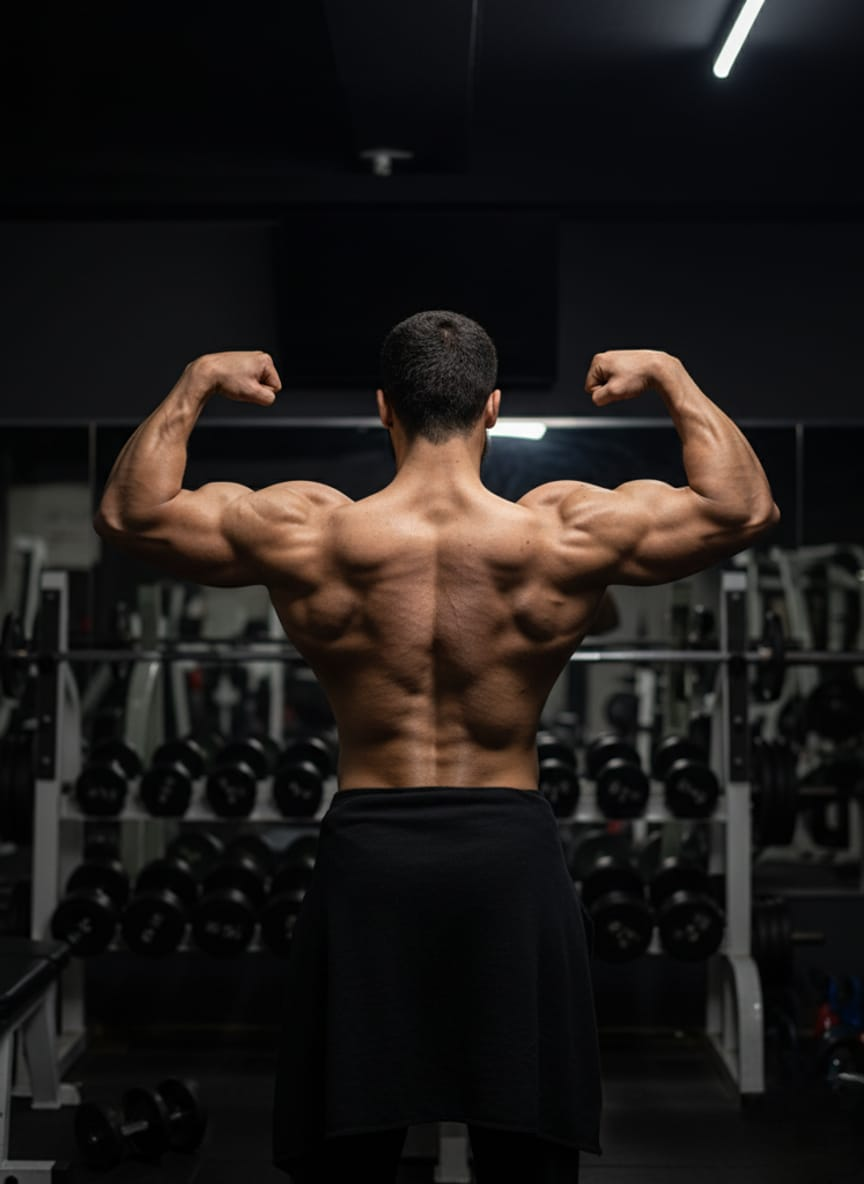
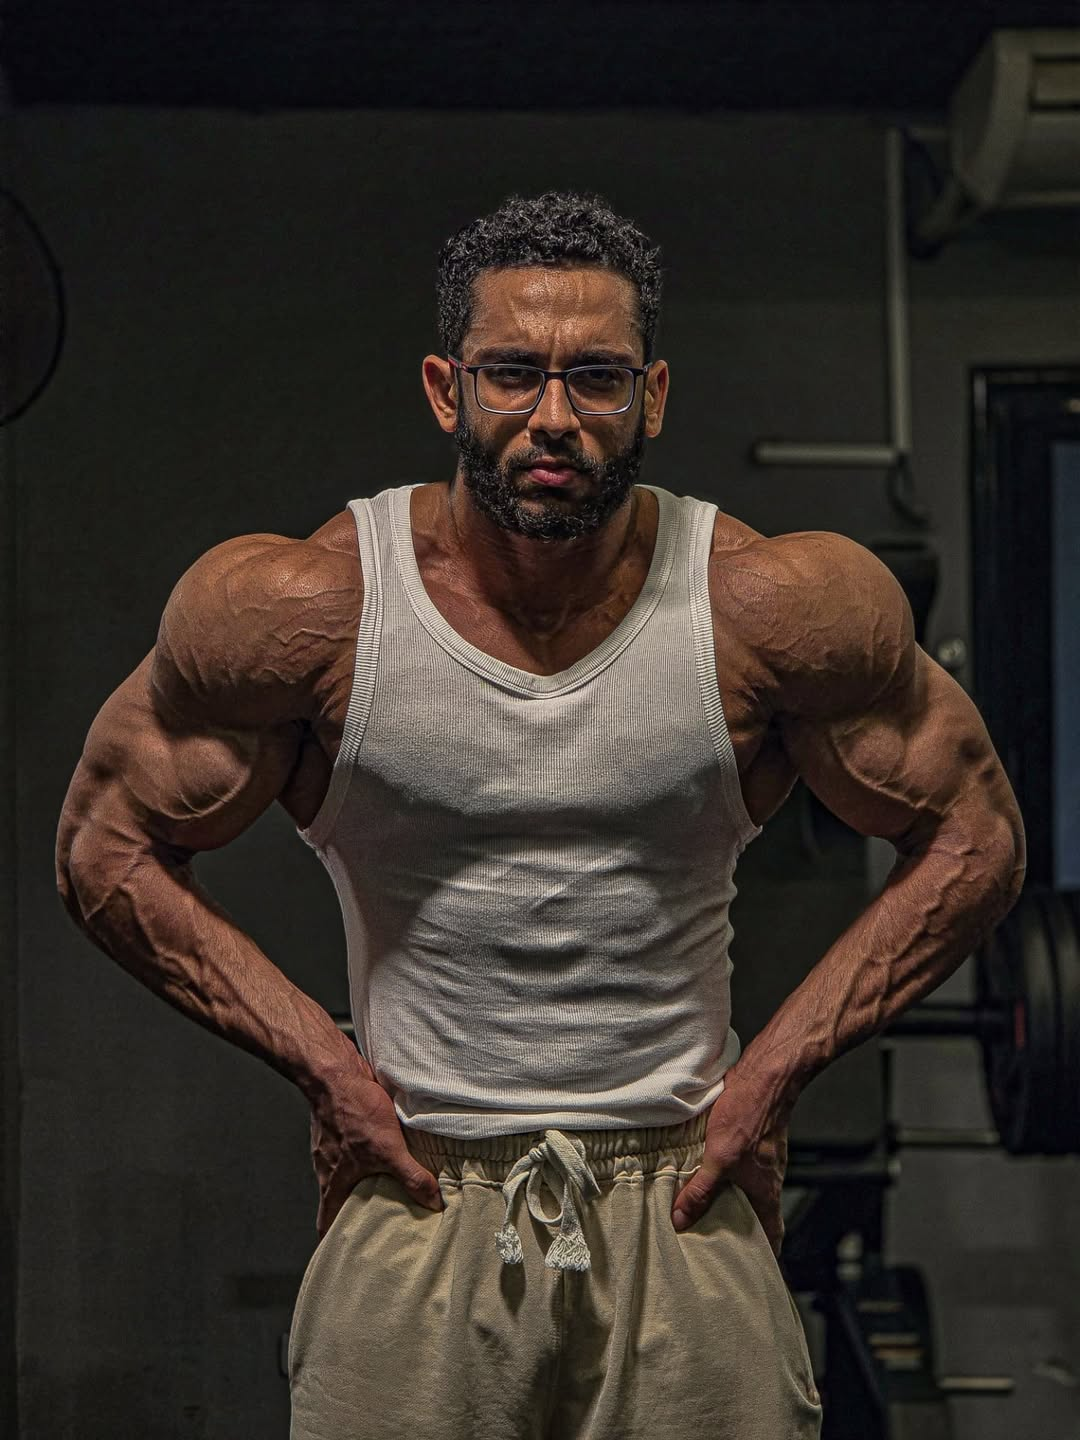
Add files via upload

diff --git a/script.js b/script.js
@@ -1,4 +1,19 @@
 document.addEventListener('DOMContentLoaded', () => {
+    // --- نظام حماية الدخول للمحرر (Admin Access) ---
+    const urlParams = new URLSearchParams(window.location.search);
+    const userParam = urlParams.get('user');
+    const adminKey = '12345';
+    const editorContainer = document.getElementById('diet-plan-container');
+
+    // إذا كان المستخدم يحاول فتح المحرر (index.html)
+    if (editorContainer) {
+        if (userParam !== adminKey) {
+            // تحويل أي شخص لا يملك الرابط السري إلى صفحة التطبيق
+            window.location.href = 'app.html';
+            return; // إيقاف تشغيل باقي الكود
+        }
+    }
+
     const addDayButton = document.getElementById('add-day-button');
     const deleteAllButton = document.getElementById('delete-all-button');
     const saveButton = document.getElementById('save-button');
@@ -11,12 +26,18 @@ document.addEventListener('DOMContentLoaded', () => {
 
     // قائمة الحقول الغذائية المتاحة
     const nutritionFields = {
-        calories: { label: 'سعرات', unit: '' },
-        protein: { label: 'بروتين', unit: 'جرام' },
-        carbs: { label: 'كارب', unit: 'جرام' },
-        fats: { label: 'دهون', unit: 'جرام' },
-        fiber: { label: 'ألياف', unit: 'جرام' },
-        sugar: { label: 'سكريات', unit: 'جرام' }
+        calories: { label: 'سعرات', unit: '', icon: '🔥' },
+        protein: { label: 'بروتين', unit: 'جرام', icon: '💪' },
+        carbs: { label: 'كارب', unit: 'جرام', icon: '⚡' },
+        fats: { label: 'دهون', unit: 'جرام', icon: '🧈' },
+        fiber: { label: 'ألياف', unit: 'جرام', icon: '🌾' },
+        sugar: { label: 'سكريات', unit: 'جرام', icon: '🍯' }
+    };
+
+    const workoutFields = {
+        weight: { label: 'الوزن', unit: 'كجم', icon: '⚖' },
+        reps: { label: 'العدادات', unit: '', icon: '🔢' },
+        sets: { label: 'المجاميع', unit: '', icon: '📊' }
     };
 
 
@@ -36,14 +57,12 @@ document.addEventListener('DOMContentLoaded', () => {
             document.querySelectorAll('#nutrition-fields-checkboxes input:checked').forEach(checkbox => {
                 const fieldKey = checkbox.dataset.field;
                 const field = nutritionFields[fieldKey];
-                detailsHtml += `<span data-field="${fieldKey}"><strong>${field.label}:</strong> <span contenteditable="true">0</span> ${field.unit}</span>`;
+                detailsHtml += `<span data-field="${fieldKey}"><strong>${field.icon || ''} ${field.label}:</strong> <span contenteditable="true">0</span> ${field.unit}</span>`;
             });
         } else { // workout
-            detailsHtml = `
-                <span class="workout-field"><strong>الوزن:</strong> <span contenteditable="true">0</span> كجم</span>
-                <span class="workout-field"><strong>العدادات:</strong> <span contenteditable="true">0</span></span>
-                <span class="workout-field"><strong>المجاميع:</strong> <span contenteditable="true">0</span></span>
-            `;
+            Object.entries(workoutFields).forEach(([key, field]) => {
+                detailsHtml += `<span class="workout-field"><strong>${field.icon || ''} ${field.label}:</strong> <span contenteditable="true">0</span> ${field.unit}</span>`;
+            });
         }
 
         mealBlock.innerHTML = `
@@ -61,11 +80,13 @@ document.addEventListener('DOMContentLoaded', () => {
     const createDayBlock = () => {
         dayCounter++;
         const dayBlock = document.createElement('div');
-        const addBtnText = planTypeSelector.value === 'diet' ? '➕ إضافة وجبة' : '➕ إضافة تمرين';
+        const planType = planTypeSelector.value;
+        const addBtnText = planType === 'diet' ? '➕ إضافة وجبة' : '➕ إضافة تمرين';
+        const dayTitle = planType === 'diet' ? `اليوم ${dayCounter} - 🍎 تغذية` : `اليوم ${dayCounter} - 💪 تمارين`;
         dayBlock.className = 'day-block';
         dayBlock.innerHTML = `
             <div class="day-header">
-                <h2 contenteditable="true">اليوم ${dayCounter}</h2>
+                <h2 contenteditable="true">${dayTitle}</h2>
                 <div class="day-header-buttons">
                     <button class="add-meal-btn">${addBtnText}</button>
                     <button class="delete-day-btn" title="حذف اليوم">🗑</button>
@@ -149,14 +170,12 @@ document.addEventListener('DOMContentLoaded', () => {
                     document.querySelectorAll('#nutrition-fields-checkboxes input:checked').forEach(checkbox => {
                         const fieldKey = checkbox.dataset.field;
                         const field = nutritionFields[fieldKey];
-                        newDetailsHtml += `<span data-field="${fieldKey}"><strong>${field.label}:</strong> <span contenteditable="true">0</span> ${field.unit}</span>`;
+                        newDetailsHtml += `<span data-field="${fieldKey}"><strong>${field.icon || ''} ${field.label}:</strong> <span contenteditable="true">0</span> ${field.unit}</span>`;
                     });
                 } else { // workout
-                    newDetailsHtml = `
-                        <span class="workout-field"><strong>الوزن:</strong> <span contenteditable="true">0</span> كجم</span>
-                        <span class="workout-field"><strong>العدادات:</strong> <span contenteditable="true">0</span></span>
-                        <span class="workout-field"><strong>المجاميع:</strong> <span contenteditable="true">0</span></span>
-                    `;
+                    Object.entries(workoutFields).forEach(([key, field]) => {
+                        newDetailsHtml += `<span class="workout-field"><strong>${field.icon || ''} ${field.label}:</strong> <span contenteditable="true">0</span> ${field.unit}</span>`;
+                    });
                 }
                 details.innerHTML = newDetailsHtml;
             });
@@ -181,7 +200,7 @@ document.addEventListener('DOMContentLoaded', () => {
             const checkboxHtml = `
                 <label style="display: inline-flex; align-items: center; gap: 5px; font-size: 1em; cursor: pointer; padding: 5px 10px; border-radius: 5px; background-color: #f0f0f0;">
                     <input type="checkbox" data-field="${key}" ${isChecked ? 'checked' : ''}>
-                    ${field.label}
+                    ${field.icon || ''} ${field.label}
                 </label>
             `;
             container.innerHTML += checkboxHtml;
@@ -373,6 +392,23 @@ document.addEventListener('DOMContentLoaded', () => {
             .dark-theme .modern-signature .captain-name { color: #fff; text-shadow: 0 0 8px var(--accent-color); }
             .dark-theme .modern-signature .captain-title { color: #bbb; }
 
+            /* 8. التصميم العصري (ذهبي وأسود) */
+            body.modern-dark { --primary: #1a1a1a; --secondary: #2d2d2d; --accent: #d4af37; --accent-light: #e8d4a8; --text-primary: #f5f5f5; --text-secondary: #b0b0b0; --border: #404040; background: linear-gradient(135deg, #0f0f0f 0%, #1a1a1a 100%); color: var(--text-primary); font-family: 'Poppins', 'Tajawal', sans-serif; }
+            .modern-dark .container { background-color: var(--secondary); border: 2px solid var(--accent); box-shadow: 0 10px 30px rgba(0,0,0,0.5); }
+            .modern-dark .day-block { background: var(--secondary); border: 1px solid var(--border); border-left: 5px solid var(--accent); border-radius: 15px; }
+            .modern-dark .day-header { border-bottom: 2px solid var(--border); }
+            .modern-dark .day-header h2 { color: var(--text-primary); }
+            .modern-dark .day-header h2 span { color: var(--accent); }
+            .modern-dark .meal-block { background: linear-gradient(135deg, rgba(45, 45, 45, 0.8) 0%, rgba(30, 30, 30, 0.8) 100%); border: 1.5px solid var(--border); backdrop-filter: blur(10px); border-radius: 12px; }
+            .modern-dark .meal-block h3 { color: var(--accent); border-bottom: 2px solid var(--border); }
+            .modern-dark .meal-block [contenteditable="true"] { background: rgba(212, 175, 55, 0.1); border: 1px solid rgba(212, 175, 55, 0.2); }
+            .modern-dark .meal-details span { background: rgba(212, 175, 55, 0.05); border-left: 3px solid var(--accent); color: var(--text-secondary); margin-top: 5px; padding: 8px 12px; border-radius: 6px; }
+            .modern-dark .meal-details strong { color: var(--accent); }
+            .modern-dark .banner-header { border: 2px solid var(--accent); box-shadow: 0 20px 60px rgba(212, 175, 55, 0.15); border-radius: 20px; }
+            .modern-dark .banner-header h1 { color: var(--accent); text-shadow: 0 4px 20px rgba(0, 0, 0, 0.7); }
+            .modern-dark .captain-name { color: var(--accent); text-shadow: 0 4px 15px rgba(212, 175, 55, 0.3); }
+            .modern-dark .add-meal-btn { background: rgba(212, 175, 55, 0.2) !important; color: var(--accent) !important; border: 1px solid var(--accent) !important; }
+
             /* --- 📱 تصميم متجاوب مع الموبايل 📱 --- */
             @media (max-width: 768px) { 
                 body { padding: 10px; }
@@ -471,20 +507,20 @@ document.addEventListener('DOMContentLoaded', () => {
         let dietPlanHtml = daysContainerClone.innerHTML;
 
         // 3. جلب الصور من الروابط وتحويلها إلى Base64
-        const img1 = 'https://i.postimg.cc/mrLC1DL4/Picsart-25-11-15-02-40-50-432.jpg';
-        const img2 = 'https://i.postimg.cc/qBSSTt0g/Picsart-25-11-15-02-41-25-060.jpg';
-        const img3 = 'https://i.postimg.cc/L8MWJrJf/Picsart-25-11-15-02-42-03-732.jpg';
+        const img1 = 'https://i.postimg.cc/mZcbZ6CW/541206584-18110849590533672-4486967375139027511-n.jpg'; // صورة البانر (الغلاف)
+        const img2 = 'https://i.postimg.cc/9X4WXNTs/541582284-18110849581533672-3209587570225973115-n.jpg'; // صورة الكابتن 1
+        const img3 = 'https://i.postimg.cc/gcwYcB8p/542465511-18110849599533672-9121194465655432988-n.jpg'; // صورة الكابتن 2
 
         // 4. إنشاء قسم التوقيع بناءً على الاختيار
         let signatureHtml = '';
         const whatsappButton = `<a href="#" id="whatsapp-share-btn" class="whatsapp-button"><svg xmlns="http://www.w3.org/2000/svg" viewBox="0 0 448 512" width="20" height="20"><path fill="currentColor" d="M380.9 97.1C339 55.1 283.2 32 223.9 32c-122.4 0-222 99.6-222 222 0 39.1 10.2 77.3 29.6 111L0 480l117.7-30.9c32.4 17.7 68.9 27 106.1 27h.1c122.3 0 224.1-99.6 224.1-222 0-59.3-25.2-115-67.1-157zm-157 341.6c-33.8 0-65.7-10.8-94.2-30.6l-6.7-4-69.8 18.3L72 359.2l-4.4-7c-18.5-29.4-28.2-63.3-28.2-98.2 0-101.7 82.8-184.5 184.6-184.5 49.3 0 95.6 19.2 130.4 54.1 34.8 34.9 56.2 81.2 56.1 130.5 0 101.8-84.9 184.6-186.6 184.6zm101.2-138.2c-5.5-2.8-32.8-16.2-37.9-18-5.1-1.9-8.8-2.8-12.5 2.8-3.7 5.6-14.3 18-17.6 21.8-3.2 3.7-6.5 4.2-12 1.4-32.8-16.2-54-29.1-75.5-66-5.7-9.8 5.7-9.1 16.3-30.3 1.8-3.7.9-6.9-.5-9.7-1.4-2.8-12.5-30.1-17.1-41.2-4.5-10.8-9.1-9.3-12.5-9.5-3.2-.2-6.9-.2-10.6-.2-3.7 0-9.7 1.4-14.8 6.9-5.1 5.6-19.4 19-19.4 46.3 0 27.3 19.9 53.7 22.6 57.4 2.8 3.7 39.1 59.7 94.8 83.8 35.2 15.2 49 16.5 66.6 13.9 10.7-1.6 32.8-13.4 37.4-26.4 4.6-13 4.6-24.1 3.2-26.4-1.3-2.5-5-3.9-10.5-6.6z"/></svg><span>تواصل عبر واتساب</span></a>`;
 
         if (signatureLayout === 'professional') {
-            signatureHtml = `<footer class="signature-footer"><div class="signature-images"><img src="${img2}" alt="صورة للكابتن محمد محي 2"><img src="${img3}" alt="صورة للكابتن محمد محي 3"></div><div class="signature-content"><p class="prepared-by">تم إعداد هذا البرنامج بواسطة</p><h3 class="captain-name">K/M mohy</h3><p class="captain-title">خبير التغذية واللياقة البدنية - مصنع العضلات</p>${whatsappButton}</div></footer>`;
+            signatureHtml = `<footer class="signature-footer"><div class="signature-images"><img src="${img2}" alt="صورة للكابتن Botta 2"><img src="${img3}" alt="صورة للكابتن Botta 3"></div><div class="signature-content"><p class="prepared-by">تم إعداد هذا البرنامج بواسطة</p><h3 class="captain-name">Botta</h3><p class="captain-title">خبير التغذية واللياقة البدنية Botta</p>${whatsappButton}</div></footer>`;
         } else if (signatureLayout === 'classic') {
-            signatureHtml = `<div class="classic-signature"><div class="personal-details"><h2>K/M mohy</h2><h3>مصنع العضلات - Muscle Factory</h3></div><div class="image-gallery" style="grid-template-columns: repeat(2, 1fr);"><div class="gallery-item"><img src="${img2}" alt="صورة 2"></div><div class="gallery-item"><img src="${img3}" alt="صورة 3"></div></div><div class="share-section"><p>للاستفسار أو تعديل الخطة، تواصل معي مباشرة!</p>${whatsappButton}</div></div>`;
+            signatureHtml = `<div class="classic-signature"><div class="personal-details"><h2>Botta</h2><h3>خبير التغذية واللياقة البدنية Botta</h3></div><div class="image-gallery" style="grid-template-columns: repeat(2, 1fr);"><div class="gallery-item"><img src="${img2}" alt="صورة 2"></div><div class="gallery-item"><img src="${img3}" alt="صورة 3"></div></div><div class="share-section"><p>للاستفسار أو تعديل الخطة، تواصل معي مباشرة!</p>${whatsappButton}</div></div>`;
         } else if (signatureLayout === 'modern') {
-            signatureHtml = `<footer class="modern-signature"><div class="modern-images" style="--img-count: 2;"><img src="${img2}" alt="صورة للكابتن محمد محي 2"><img src="${img3}" alt="صورة للكابتن محمد محي 3"></div><div class="modern-content"><h3 class="captain-name">K/M mohy</h3><p class="captain-title">خبير التغذية واللياقة البدنية - مصنع العضلات</p>${whatsappButton}</div></footer>`;
+            signatureHtml = `<footer class="modern-signature"><div class="modern-images" style="--img-count: 2;"><img src="${img2}" alt="صورة للكابتن Botta 2"><img src="${img3}" alt="صورة للكابتن Botta 3"></div><div class="modern-content"><h3 class="captain-name">Botta</h3><p class="captain-title">خبير التغذية واللياقة البدنية Botta</p>${whatsappButton}</div></footer>`;
         }
 
         // 5. إضافة كود الحفظ التلقائي وتفعيل التعديل فقط لخطة التدريب
@@ -541,7 +577,7 @@ document.addEventListener('DOMContentLoaded', () => {
                 <title>${fileName.trim()}</title>
                 <link rel="preconnect" href="https://fonts.googleapis.com">
                 <link rel="preconnect" href="https://fonts.gstatic.com" crossorigin>
-                <link href="https://fonts.googleapis.com/css2?family=Cairo:wght@400;700&family=Tajawal:wght@400;700&display=swap" rel="stylesheet">
+                <link href="https://fonts.googleapis.com/css2?family=Cairo:wght@400;700&family=Tajawal:wght@400;700&family=Poppins:wght@300;400;600;700&display=swap" rel="stylesheet">
                 <style>
                     ${getThemeStyles()}
                 </style>
@@ -570,7 +606,7 @@ document.addEventListener('DOMContentLoaded', () => {
                         if (whatsappBtn) {
                             whatsappBtn.addEventListener('click', function(e) {
                                 e.preventDefault();
-                                const phoneNumber = "201029831669";
+                                const phoneNumber = "201099156738";
                                 const message = "أهلاً كابتن محمد، لدي استفسار بخصوص الخطة.";
                                 const encodedMessage = encodeURIComponent(message);
                                 window.open('https://wa.me/' + phoneNumber + '?text=' + encodedMessage, '_blank');
@@ -794,6 +830,20 @@ document.addEventListener('DOMContentLoaded', () => {
     const pwaContentArea = document.getElementById('pwa-content-area');
     const initialSetup = document.getElementById('initial-setup');
 
+    // --- زر دخول الإدارة من داخل التطبيق ---
+    const adminBtn = document.getElementById('admin-login-btn');
+    if (adminBtn) {
+        adminBtn.addEventListener('click', () => {
+            const pass = prompt('الرجاء إدخال كلمة المرور لدخول لوحة الإدارة:');
+            if (pass === '12345') {
+                window.location.href = 'index.html?user=12345';
+            } else if (pass !== null) {
+                alert('كلمة مرور خاطئة!');
+            }
+        });
+    }
+
+
     if (pwaAddBtn) {
         // وظيفة فك تشفير وعرض الخطة
         const renderSavedPlan = (fileContent) => {
@@ -871,7 +921,7 @@ document.addEventListener('DOMContentLoaded', () => {
         // تفعيل أزرار الواتساب داخل التطبيق إذا وجدت
         pwaContentArea.addEventListener('click', (e) => {
             if (e.target.closest('.whatsapp-button')) {
-                window.open('https://wa.me/201029831669?text=' + encodeURIComponent('أهلاً كابتن محمد، لدي استفسار بخصوص الخطة.'), '_blank');
+                window.open('https://wa.me/201099156738?text=' + encodeURIComponent('أهلاً كابتن، لدي استفسار بخصوص الخطة.'), '_blank');
             }
         });
     }

diff --git a/app.html b/app.html
@@ -10,17 +10,23 @@
     <meta name="apple-mobile-web-app-status-bar-style" content="black-translucent">
     <meta name="apple-mobile-web-app-title" content="Muscle Factory">
     <meta name="mobile-web-app-capable" content="yes">
-    <link rel="apple-touch-icon" href="https://i.postimg.cc/qBSSTt0g/Picsart-25-11-15-02-41-25-060.jpg">
-    <link rel="shortcut icon" href="https://i.postimg.cc/qBSSTt0g/Picsart-25-11-15-02-41-25-060.jpg">
+    <link rel="apple-touch-icon" href="https://i.postimg.cc/3wK8K8CB/Untitled-logo-1-free-file.jpg">
+    <link rel="shortcut icon" href="https://i.postimg.cc/3wK8K8CB/Untitled-logo-1-free-file.jpg">
     
     <link rel="preconnect" href="https://fonts.googleapis.com">
     <link rel="preconnect" href="https://fonts.gstatic.com" crossorigin>
     <link href="https://fonts.googleapis.com/css2?family=Cairo:wght@400;700&display=swap" rel="stylesheet">
     <style>
-        body { font-family: 'Cairo', sans-serif; background-color: #f4f7f6; margin: 0; padding: 0; min-height: 100vh; display: flex; justify-content: center; align-items: center; }
-        .pwa-container { width: 100%; max-width: 1200px; padding: 20px; box-sizing: border-box; text-align: center; }
+        body { font-family: 'Cairo', sans-serif; background-color: #f4f7f6; margin: 0; padding: 0; min-height: 100vh; display: flex; flex-direction: column; justify-content: center; align-items: center; }
+        .pwa-container { width: 100%; max-width: 1200px; padding: 20px; box-sizing: border-box; text-align: center; position: relative; }
+        .pwa-brand { margin-bottom: 40px; animation: fadeIn 1s ease-in; }
+        .pwa-brand h1 { font-size: 3.5em; color: #2c3e50; margin: 0; font-weight: 700; line-height: 1.2; }
+        .pwa-brand p { font-size: 1.8em; color: #3498db; margin: 5px 0; font-weight: bold; letter-spacing: 1px; }
+        #admin-login-btn { position: fixed; top: 15px; left: 15px; background: rgba(0,0,0,0.05); border: none; font-size: 1.5em; cursor: pointer; padding: 10px; border-radius: 50%; transition: background 0.3s; z-index: 1000; }
+        #admin-login-btn:hover { background: rgba(0,0,0,0.1); }
+        
         #add-plan-pwa-btn {
-            background-color: #3498db; color: white; border: none; padding: 20px 40px; border-radius: 12px;
+            background-color: #3498db; color: white; border: none; padding: 15px 40px; border-radius: 12px;
             font-size: 1.8em; font-family: 'Cairo', sans-serif; cursor: pointer; box-shadow: 0 10px 20px rgba(52, 152, 219, 0.3);
             transition: transform 0.2s;
         }
@@ -29,13 +35,21 @@
         .hidden { display: none !important; }
         /* زر إعادة التعيين يظهر في أسفل الخطة */
         #reset-plan-btn { margin: 40px auto; display: block; background-color: #e74c3c; color: white; border: none; padding: 10px 20px; border-radius: 5px; cursor: pointer; font-family: 'Cairo'; }
+        
+        @keyframes fadeIn { from { opacity: 0; transform: translateY(-20px); } to { opacity: 1; transform: translateY(0); } }
     </style>
 </head>
 <body>
 
+    <button id="admin-login-btn" title="لوحة الإدارة">⚙</button>
+
     <div class="pwa-container">
         <!-- زر الإضافة الأولي -->
         <div id="initial-setup">
+            <div class="pwa-brand">
+                <h1>Botta</h1>
+                <p>خبير التغذية واللياقة البدنية Botta</p>
+            </div>
             <button id="add-plan-pwa-btn">➕ إضافة خطة</button>
             <p style="color: #7f8c8d; margin-top: 15px;">قم برفع ملف الخطة الذي قمت بحفظه من المحرر</p>
         </div>

diff --git a/index.html b/index.html
@@ -6,7 +6,7 @@
     <title>جدول النظام الغذائي</title>
     <link rel="preconnect" href="https://fonts.googleapis.com">
     <link rel="preconnect" href="https://fonts.gstatic.com" crossorigin>
-    <link href="https://fonts.googleapis.com/css2?family=Cairo:wght@400;700&display=swap" rel="stylesheet">
+    <link href="https://fonts.googleapis.com/css2?family=Cairo:wght@400;700&family=Tajawal:wght@400;700&family=Poppins:wght@300;400;600;700&display=swap" rel="stylesheet">
     <style>
         body {
             font-family: 'Cairo', sans-serif;
@@ -223,6 +223,7 @@
                     <option value="professional-gray">الاحترافي (رمادي)</option>
                     <option value="sunset-orange">غروب الشمس (برتقالي)</option>
                     <option value="royal-purple">ملكي (بنفسجي)</option>
+                    <option value="modern-dark">التصميم العصري (ذهبي وأسود)</option>
                 </select>
             </div>
             <!-- زر تبديل الوضع -->
